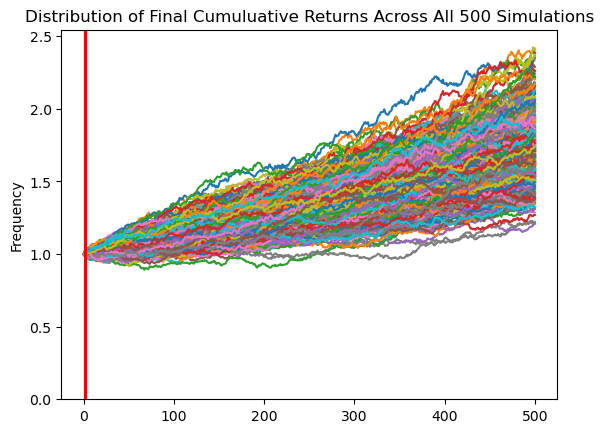
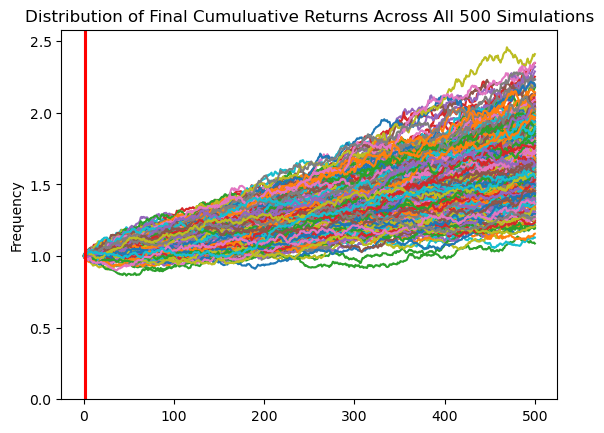
mc prelim

diff --git a/app.py b/app.py
@@ -1,6 +1,6 @@
 from ast import And
 import streamlit as st
-
+import os
 import requests
 import pandas as pd
 import hvplot.pandas
@@ -177,12 +177,11 @@ def confidence(stock,conf_pct):
 # RA: Configure a Monte Carlo simulation to forecast five years cumulative returns
 def mc(closing_prices_df):
     global MC_fiveyear
-    """weights = np.random.rand(num_of_stock)
-    weights /=weights.sum()
-    st.table(weights)"""
+    weight = np.random.rand(10)
+    weight /=weight.sum()
     MC_fiveyear = MCSimulation(
         portfolio_data = closing_prices_df,
-        weights = [0.1,0.1,0.1,0.1,0.1,0.1,0.1,0.1,0.1,0.1],
+        weights = weight,
         num_simulation = 500,
         num_trading_days = 500
     )
